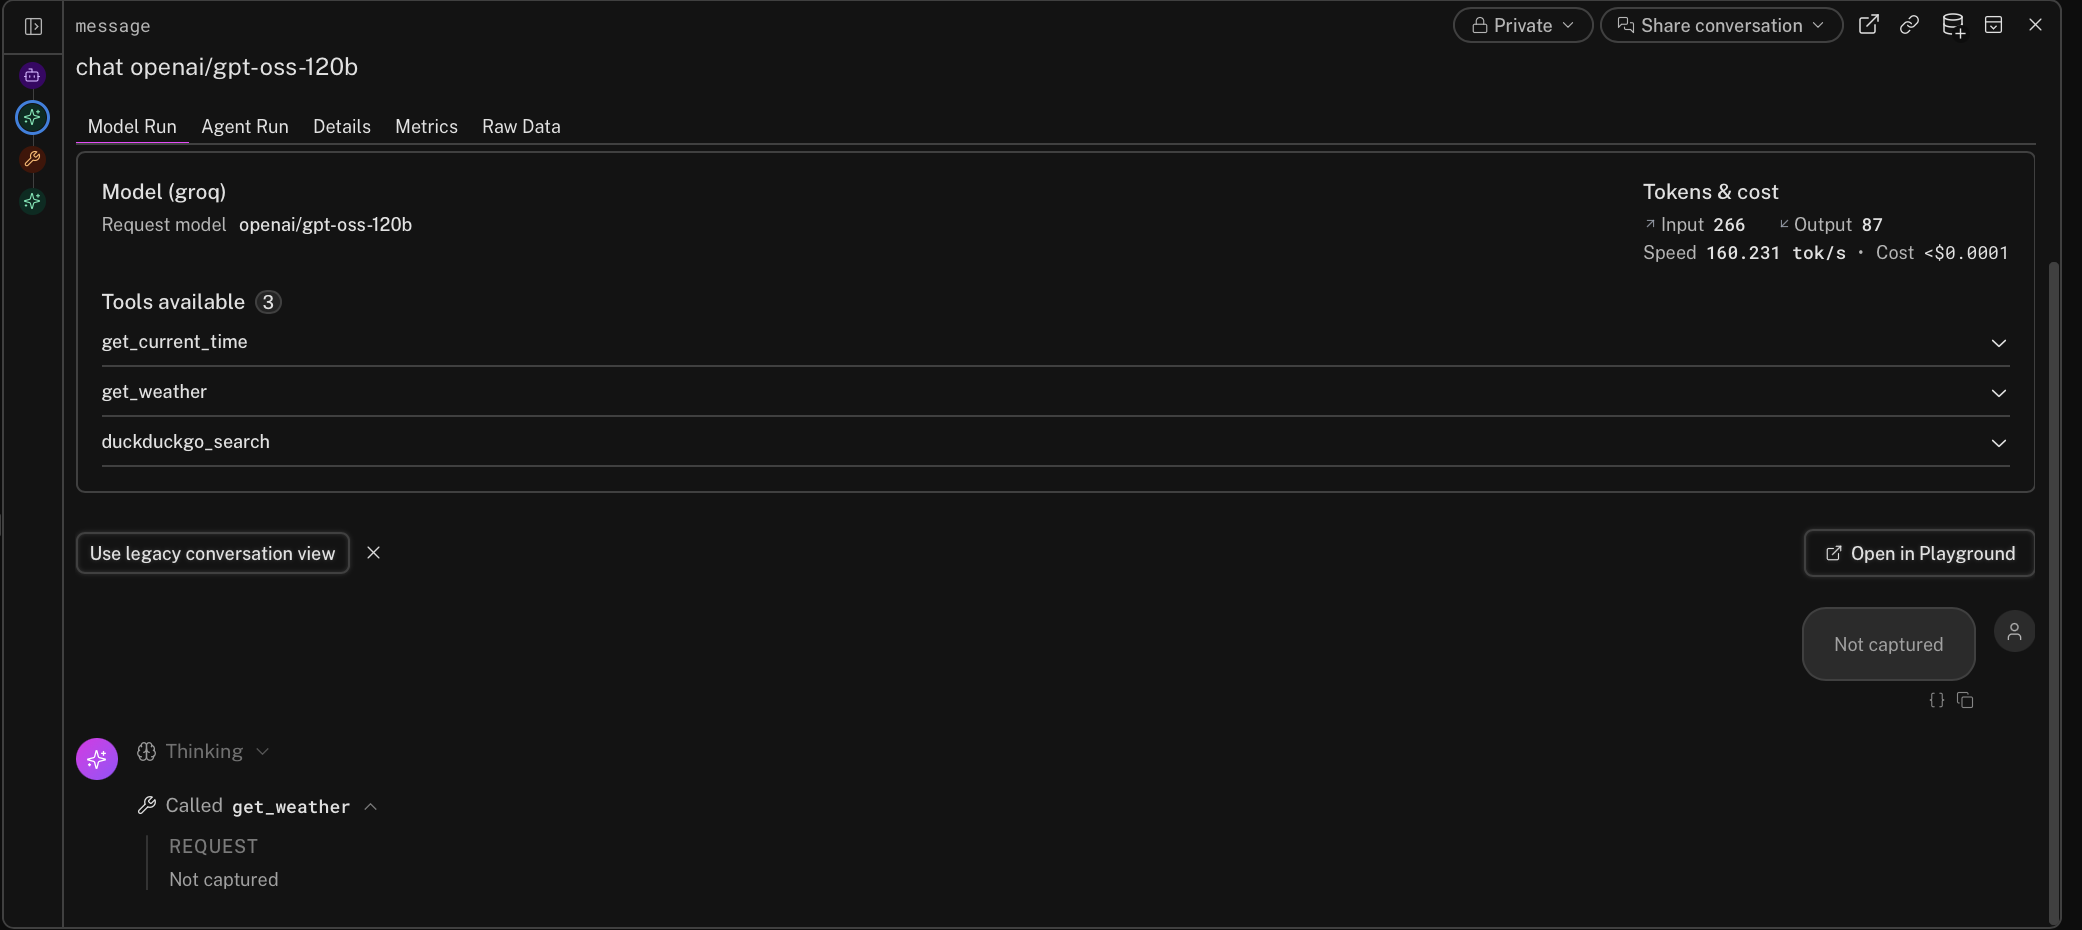
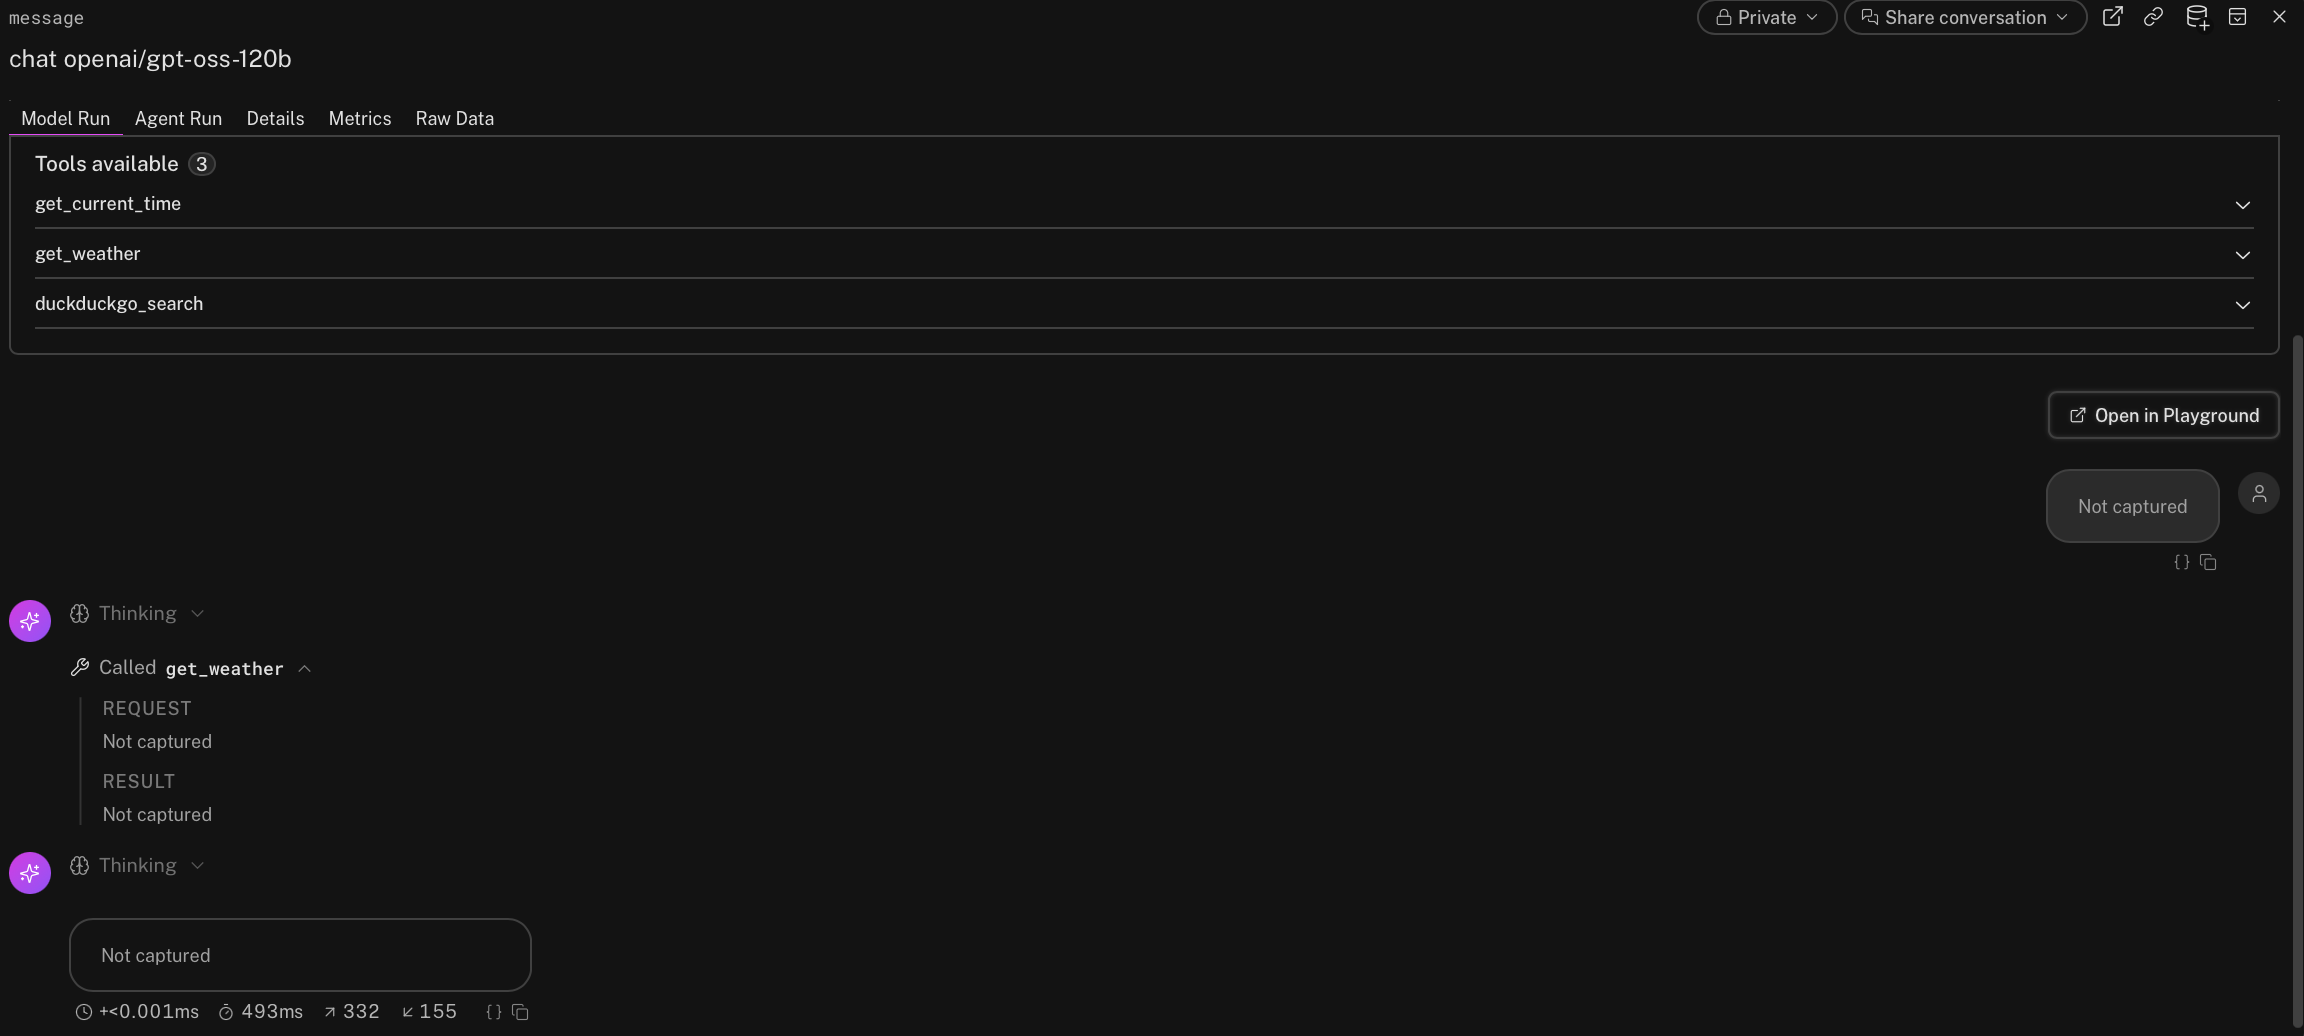
docs(readme): shorten the text and refresh the screenshots
- Each highlight and caption is one sentence; details stay in
  docs/architecture.md.
- The chat, trace and model-run screenshots now show the same reply,
  in dark mode.
- The upstream fixes move to the GitHub profile README.

diff --git a/README.md b/README.md
@@ -1,8 +1,8 @@
 # AI-Hub
 
-A live LLM chat backend, run the way production teams run theirs: every
-request is traced, every prompt change is scored by evals, and any user's
-failed request can be [found in a minute](docs/debugging-a-failed-reply.md).
+A live LLM chat backend, run like a production service: every request traced,
+every prompt change scored by evals, and any failed reply
+[found in a minute](docs/debugging-a-failed-reply.md).
 
 [![CI](https://github.com/mekanbaymyradov/AI-Hub/actions/workflows/ci.yml/badge.svg)](https://github.com/mekanbaymyradov/AI-Hub/actions/workflows/ci.yml)
 [![Python](https://img.shields.io/python/required-version-toml?tomlFilePath=https://raw.githubusercontent.com/mekanbaymyradov/AI-Hub/main/pyproject.toml)](pyproject.toml)
@@ -11,90 +11,55 @@ failed request can be [found in a minute](docs/debugging-a-failed-reply.md).
 
 **Live:** [ai-hub.techship.fun](https://ai-hub.techship.fun/)
 
-I built it to learn how FastAPI serves AI agents and why observability
-matters, so it's held to the standards I'd use at work: typed and tested code,
-migrations, CI/CD, alerts and evals.
+I built it to learn how FastAPI serves AI agents, and held it to the standards
+I'd use at work.
 
 ## What's interesting here
 
-- **Tracing that keeps user data out.** Each request is one Logfire trace, with
-  its SQL, Redis, R2, outgoing HTTP and agent calls as child spans, and
-  signed-in requests carry the user's ID. Production traces record the model,
-  tokens and timing but never chat text. Log messages are fixed templates, so
-  alerts can match on them.
+- **Tracing without user data.** One Logfire trace per request, with the model,
+  tokens and timing, but never the chat text.
   ([code](src/observability.py), [details](docs/architecture.md#logging-and-observability))
-- **Agent replies streamed through FastAPI.** Pydantic AI runs the agent and
-  streams its reply in the Vercel AI SDK's protocol. The database is the only
-  record of a chat's history, provider errors are replaced before they reach
-  the client, and when the weather service is down, the tool tells the model
-  instead of failing the reply.
-  ([code](src/chat/adapter.py), [tools](src/llm/tools.py), [details](docs/architecture.md#streaming))
-- **Sessions that catch stolen tokens.** Sign-in is passwordless. Refresh
-  tokens rotate on every use, and replaying one that was already rotated
-  revokes the whole session.
+- **Streamed agent replies.** Pydantic AI streams each reply through FastAPI.
+  History lives only in the database, and provider errors never reach the
+  client. ([code](src/chat/adapter.py), [details](docs/architecture.md#streaming))
+- **Stolen-token detection.** Refresh tokens rotate on every use, and reusing
+  an old one revokes the session.
   ([code](src/auth/sessions.py), [details](docs/architecture.md#auth))
-- **Evals that score every prompt change.** Each model answers a fixed set of
-  questions, and the answers are graded by code checks and an LLM judge built
-  on pydantic_evals. Every run lands in Logfire as an experiment to compare
-  against the last, and retries with backoff keep it within free-tier rate
-  limits.
+- **Evals for every prompt change.** Code checks and an LLM judge score each
+  model's answers, and every run is a Logfire experiment.
   ([code](evals/), [cases](evals/cases.yaml))
-- **Attachments without races.** Files are uploaded before the message,
-  claimed once, and read through signed URLs. An hourly job removes unclaimed
-  uploads, deleting rows before files so it can't remove a file that a message
-  is claiming at that moment.
+- **Race-free file cleanup.** The hourly job deletes rows before files, so it
+  never removes a file a message is claiming.
   ([code](src/chat/schedule.py), [details](docs/architecture.md#attachments))
 
 ## One reply, end to end
 
-A question on the live site that needs a tool to answer:
+A question that needs a tool:
 
-![The chat: "What should I wear now in Ashgabat?" answered with the current weather and a layered outfit](docs/images/chat-reply.png)
+![The chat: "What should I wear now in Ashgabat?" answered with the current weather and an outfit](docs/images/chat-reply.png)
 
-The whole reply is one trace in Logfire, 2 seconds end to end. Two Redis
-rate-limit checks and the loading of the user, chat and history come first.
-Then the agent runs: the model asks for `get_weather`, the tool calls
-Open-Meteo, and a second model call writes the answer. Last, the reply is saved
-and a smaller agent names the chat.
+One trace, 1.7 seconds: rate-limit checks, loading the chat, then the agent
+calls `get_weather` and writes the answer.
 
 ![The production trace: rate-limit checks and SQL, then an agent run with two model calls around a get_weather tool call, then the title agent](docs/images/trace.png)
 
-Production keeps the model, tokens and cost, but not the conversation: the
-question and the tool's arguments show as "Not captured".
+Production keeps the model, tokens and timing. The conversation reads
+"Not captured".
 
-![Logfire's view of one model call: model, tokens and cost are recorded, while the user's message and the tool request read "Not captured"](docs/images/model-run.png)
-
-## Fixed upstream along the way
-
-- **OpenTelemetry** ([#5246](https://github.com/open-telemetry/opentelemetry-python-contrib/pull/5246)):
-  the health check reads the database inside `suppress_instrumentation()`, and
-  that drove the SQLAlchemy connection-pool metric negative in production. The
-  instrumentation now keeps checkouts and checkins paired.
-- **Logfire** ([#2609](https://github.com/pydantic/logfire/pull/2609)): Logfire
-  has no helper for botocore, so R2 is traced through a hand-wired OpenTelemetry
-  instrumentor. `logfire run` now falls back to OpenTelemetry's instrumentors
-  for botocore and 18 other packages.
-- **Pydantic AI** ([#10306](https://github.com/pydantic/pydantic-ai/pull/10306)):
-  Pydantic AI still listed Groq models that Groq had shut down; four of them
-  are now removed.
+![Logfire's view of the second model call: the model, its tools, tokens and timing are recorded, while the question, the tool call and the answer read "Not captured"](docs/images/model-run.png)
 
 ## Architecture
 
-Everything runs with Docker Compose on one server, and a version tag deploys
-it. The agent runs inside the API process, so a reply is one request from the
-browser's side and one trace in Logfire.
+Everything runs with Docker Compose on one server, and a version tag deploys it.
 
 ![Architecture: the web client reaches the API through Caddy. The API calls the LLM providers and sends telemetry to Logfire, as does the OTel Collector. The API and the hourly scheduler use PostgreSQL, Redis and Cloudflare R2.](docs/images/architecture.svg)
 
 ## Features
 
-- Chat with Anthropic, OpenAI, Google, Groq and Mistral models through one API;
-  providers without an API key are left out
-- Tools for the time, weather and web search, with the running tool shown in
-  the chat
-- Reasoning effort per message, and regenerating the last reply
-- Image and PDF attachments, and voice input transcribed by Whisper
-- Passwordless sign-in, custom instructions, avatars and paginated chat history
+- Chat with Anthropic, OpenAI, Google, Groq and Mistral models
+- Tools for the time, weather and web search
+- Reasoning effort, reply regeneration, image and PDF attachments, voice input
+- Passwordless sign-in, custom instructions and chat history
 
 ## Tech stack
 
@@ -104,9 +69,8 @@ browser's side and one trace in Logfire.
 - **Storage:** Cloudflare R2 (S3 API)
 - **Email:** Resend
 - **Observability:** Logfire, OpenTelemetry Collector
-- **CI/CD:** GitHub Actions runs Ruff, ty, pytest, a Docker Compose smoke test
-  and a migration check on every pull request; a version tag reruns them and
-  deploys to the server
+- **CI/CD:** GitHub Actions for lint, types, tests and a Compose smoke test;
+  version tags deploy
 - **Tooling:** uv, Docker Compose, supercronic
 
 ## Getting started
@@ -125,21 +89,20 @@ uv run alembic upgrade head
 - API docs: http://localhost:8000/docs
 
 Run the tests with `uv run pytest`, and the evals with
-`uv run python -m evals --name <prompt version>`. The evals need a Groq key for
-the judge and a Logfire token.
+`uv run python -m evals --name <prompt version>` (needs a Groq key and a
+Logfire token).
 
 ## Docs
 
-- [Development guide](docs/development.md): configuration, migrations, jobs, tests
-- [Architecture](docs/architecture.md): how auth, streaming, attachments and the infrastructure work
-- [Debugging a failed reply](docs/debugging-a-failed-reply.md): find why a user's reply failed, what to tell them and what to fix
+- [Development guide](docs/development.md): setup, migrations, jobs, tests
+- [Architecture](docs/architecture.md): how each part works
+- [Debugging a failed reply](docs/debugging-a-failed-reply.md): from a user's report to the fix
 - [Research notes](docs/RESEARCH.md)
 
 ## Next
 
-- Move the system prompt into Logfire as a managed prompt, so it can change
-  without a deploy
-- Track token cost per user and per model, from the usage already in the traces
+- Move the system prompt into Logfire, so it changes without a deploy
+- Track token cost per user and model
 - Fall back to another provider when one fails
 
 ## Credits
@@ -147,8 +110,8 @@ the judge and a Logfire token.
 I built the backend, infrastructure, evals and tests;
 [yunus770](https://github.com/yunus770) built most of the React web app.
 
-The project was inspired by:
+Inspired by:
 
-- [Netflix Dispatch](https://github.com/Netflix/dispatch/tree/main/src/dispatch): the architecture, one package per domain
-- [FastAPI Best Practices](https://github.com/zhanymkanov/fastapi-best-practices): project structure and conventions by [@zhanymkanov](https://github.com/zhanymkanov)
-- [FastAPI Tips](https://github.com/Kludex/fastapi-tips): tips from [@Kludex](https://github.com/Kludex), the FastAPI expert
+- [Netflix Dispatch](https://github.com/Netflix/dispatch/tree/main/src/dispatch): one package per domain
+- [FastAPI Best Practices](https://github.com/zhanymkanov/fastapi-best-practices) by [@zhanymkanov](https://github.com/zhanymkanov)
+- [FastAPI Tips](https://github.com/Kludex/fastapi-tips) by [@Kludex](https://github.com/Kludex)
